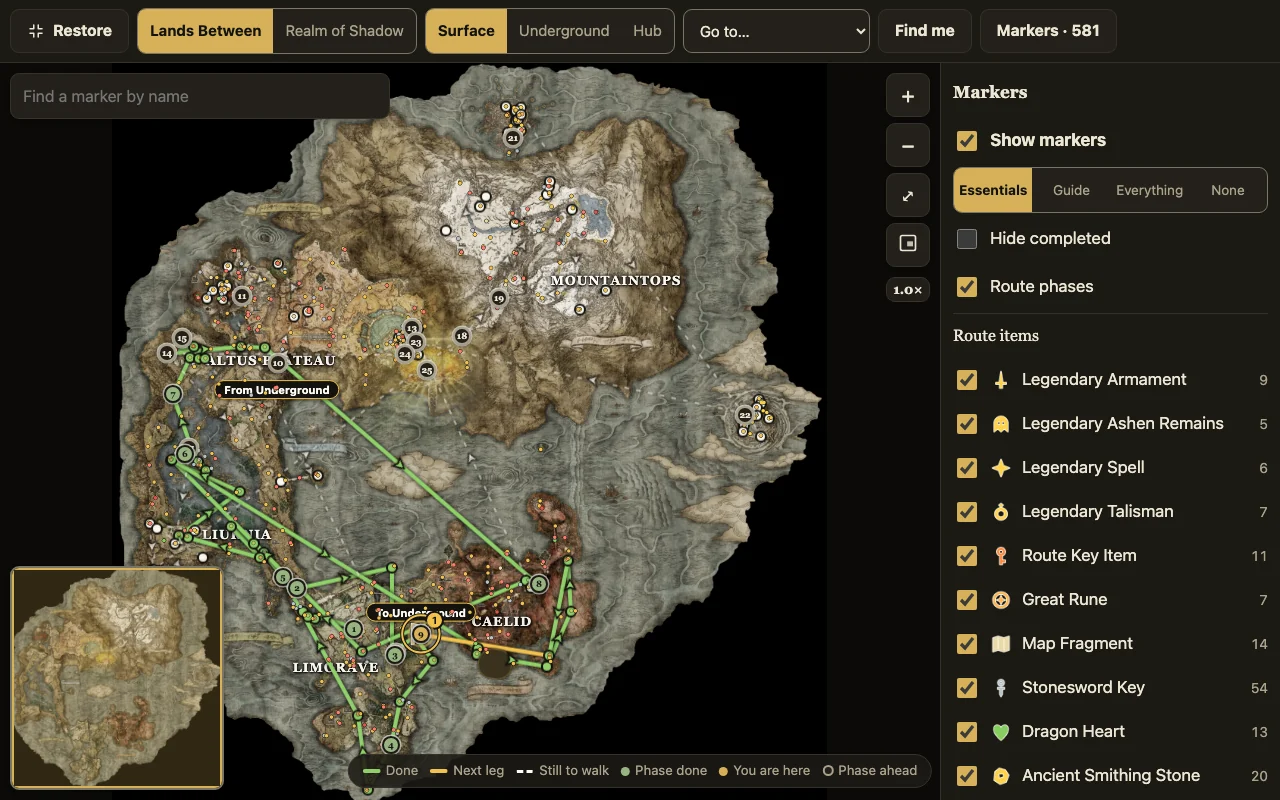
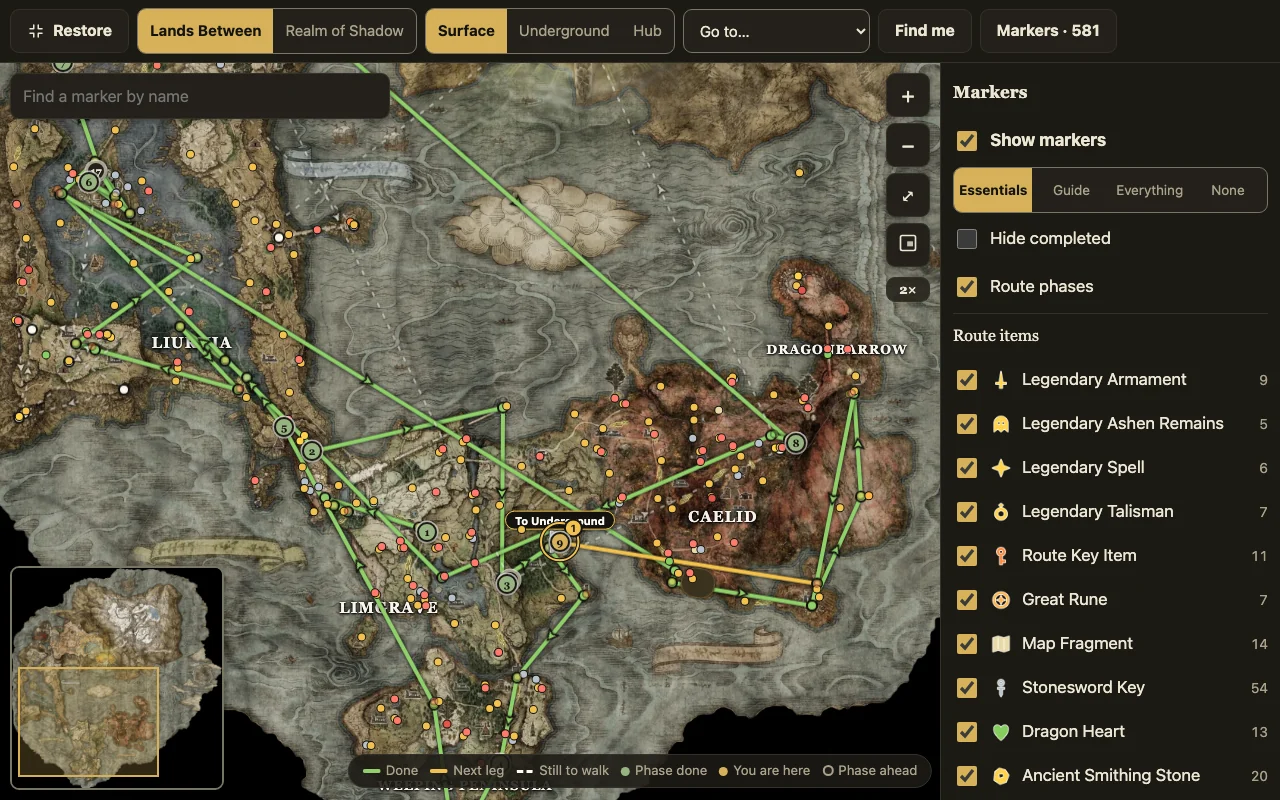
README: zoomed-in map screenshots

diff --git a/README.md b/README.md
@@ -65,7 +65,7 @@ Shadow of the Erdtree can be switched on in Settings. The DLC has no trophies, s
 
 <p align="center">
   <img src="docs/screenshots/map-desktop-dark.webp" width="760" alt="Maximized map of the Lands Between with the numbered route drawn on it, dark theme"><br>
-  <sub>The Lands Between with the route drawn through each phase, marker filters and the overview map.</sub>
+  <sub>Zoomed in on Limgrave and Caelid: the route drawn through each phase, marker filters and the overview map.</sub>
 </p>
 
 <table>
@@ -74,8 +74,8 @@ Shadow of the Erdtree can be switched on in Settings. The DLC has no trophies, s
     <td width="38%"><img src="docs/screenshots/map-phone-dark.webp" alt="Maximized map on a phone, dark theme"></td>
   </tr>
   <tr>
-    <td align="center"><sub>Realm of Shadow (Shadow of the Erdtree)</sub></td>
-    <td align="center"><sub>The same map on a phone</sub></td>
+    <td align="center"><sub>Realm of Shadow (Shadow of the Erdtree), zoomed in</sub></td>
+    <td align="center"><sub>The same map on a phone, with the overview map in the corner</sub></td>
   </tr>
 </table>
 
